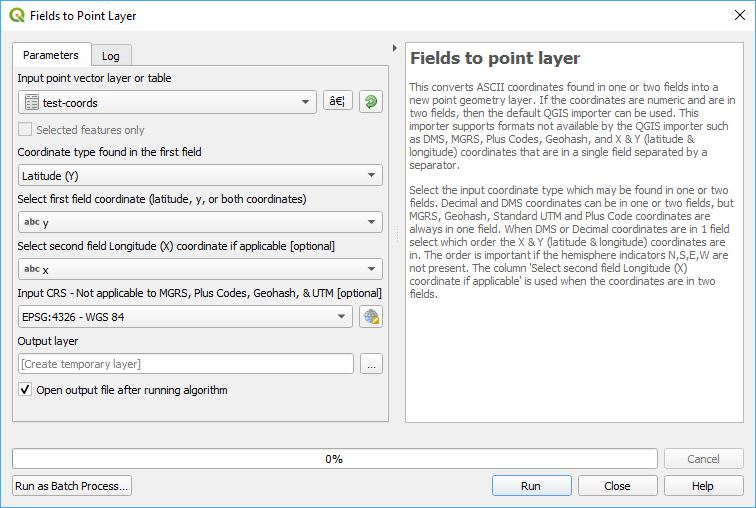
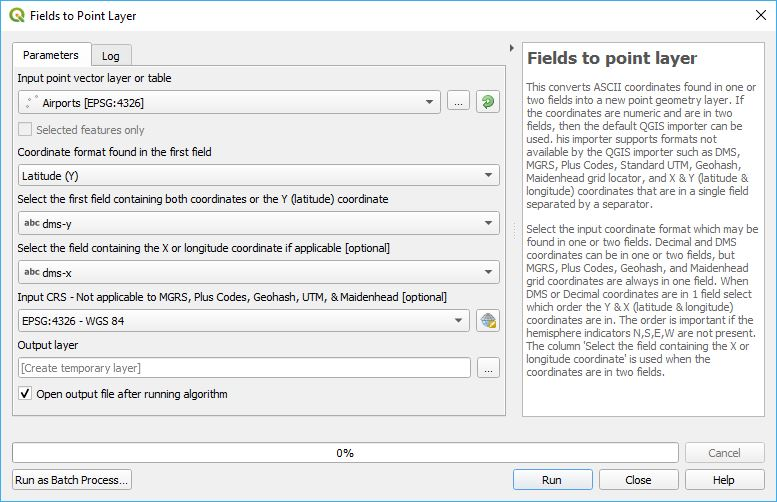
prvoide extra maidenhead and dms support.

Changed region(s): [[0.0, 0.0, 0.9735, 0.8367], [0.0, 0.8665, 0.9735, 0.9861], [0.9735, 0.0, 1.0, 0.0299]]

diff --git a/geom2field.py b/geom2field.py
@@ -21,6 +21,7 @@ from .util import epsg4326, convertDD2DMS, formatDmsString
 from .utm import latLon2UtmString
 from . import olc
 from . import geohash
+from .maidenhead import toMaiden
 
 def tr(string):
     return QCoreApplication.translate('Processing', string)
@@ -43,11 +44,13 @@ class Geom2FieldAlgorithm(QgsProcessingAlgorithm):
     PrmCustomCRS = 'CustomCRS'
     PrmWgs84NumberFormat = 'Wgs84NumberFormat'
     PrmCoordinatePrecision = 'CoordinatePrecision'
-    PrmDMSSecondPrecision = 'DMSSecondPrecision'
+    PrmDmsSecondPrecision = 'DMSSecondPrecision'
     PrmPlusCodesLength = 'PlusCodesLength'
     PrmGeohashPrecision = 'PrmGeohashPrecision'
     PrmOutputLayer = 'OutputLayer'
     PrmDmsAddSpace = 'DmsAddSpace'
+    PrmDmsPadWithSpace = 'DmsPadWithSpace'
+    PrmMaidenheadPrecision = 'MaidenheadPrecision'
 
     def initAlgorithm(self, config):
         self.addParameter(
@@ -59,26 +62,27 @@ class Geom2FieldAlgorithm(QgsProcessingAlgorithm):
         self.addParameter(
             QgsProcessingParameterEnum(
                 self.PrmOutputFormat,
-                tr('Output format'),
+                tr('Output coordinate format'),
                 options=[
                     tr('Coordinates in 2 fields'),
                     tr('Coordinates in 1 field'),
                     tr('GeoJSON'), tr('WKT'), tr('MGRS'),
-                    tr('Plus Codes'), tr('Geohash'), tr('Standard UTM')],
+                    tr('Plus Codes'), tr('Geohash'), tr('Standard UTM'),
+                    tr('Maidenhead grid locator')],
                 defaultValue=0,
-                optional=True)
+                optional=False)
         )
         self.addParameter(
             QgsProcessingParameterString(
                 self.PrmYFieldName,
-                tr('Name of latitude (Y) field & all other single field coordinates'),
+                tr('Name for the field containing both coordinates, or the Y (latitude) coordinate'),
                 defaultValue='y',
-                optional=True)
+                optional=False)
         )
         self.addParameter(
             QgsProcessingParameterString(
                 self.PrmXFieldName,
-                tr('Name of longitude (X) field when coordinates are in two fields'),
+                tr('Name of the field containing the X (longitude) portion of the coordinate'),
                 defaultValue='x',
                 optional=True)
         )
@@ -128,6 +132,13 @@ class Geom2FieldAlgorithm(QgsProcessingAlgorithm):
                 optional=True)
         )
         self.addParameter(
+            QgsProcessingParameterBoolean(
+                self.PrmDmsPadWithSpace,
+                tr('Pad D°M\'S" and D°M.MM\' ccoordinates with leading zeros'),
+                False,
+                optional=True)
+        )
+        self.addParameter(
             QgsProcessingParameterNumber(
                 self.PrmCoordinatePrecision,
                 tr('Decimal number precision'),
@@ -138,7 +149,7 @@ class Geom2FieldAlgorithm(QgsProcessingAlgorithm):
         )
         self.addParameter(
             QgsProcessingParameterNumber(
-                self.PrmDMSSecondPrecision,
+                self.PrmDmsSecondPrecision,
                 tr('DMS / Degrees Minutes / UTM precision'),
                 type=QgsProcessingParameterNumber.Integer,
                 defaultValue=0,
@@ -166,6 +177,16 @@ class Geom2FieldAlgorithm(QgsProcessingAlgorithm):
                 maxValue=30)
         )
         self.addParameter(
+            QgsProcessingParameterNumber(
+                self.PrmMaidenheadPrecision,
+                tr('Maidenhead grid locator precision'),
+                type=QgsProcessingParameterNumber.Integer,
+                defaultValue=3,
+                optional=True,
+                minValue=1,
+                maxValue=4)
+        )
+        self.addParameter(
             QgsProcessingParameterFeatureSink(
                 self.PrmOutputLayer,
                 tr('Output layer'))
@@ -182,10 +203,12 @@ class Geom2FieldAlgorithm(QgsProcessingAlgorithm):
         crsOther = self.parameterAsCrs(parameters, self.PrmCustomCRS, context)
         wgs84Format = self.parameterAsInt(parameters, self.PrmWgs84NumberFormat, context)
         decimalPrecision = self.parameterAsInt(parameters, self.PrmCoordinatePrecision, context)
-        dmsPrecision = self.parameterAsInt(parameters, self.PrmDMSSecondPrecision, context)
+        dmsPrecision = self.parameterAsInt(parameters, self.PrmDmsSecondPrecision, context)
         plusCodesLength = self.parameterAsInt(parameters, self.PrmPlusCodesLength, context)
         geohashPrecision = self.parameterAsInt(parameters, self.PrmGeohashPrecision, context)
+        maidenPrecision = self.parameterAsInt(parameters, self.PrmMaidenheadPrecision, context)
         use_dms_space = self.parameterAsBool(parameters, self.PrmDmsAddSpace, context)
+        dms_pad_with_space = self.parameterAsBool(parameters, self.PrmDmsPadWithSpace, context)
 
         layerCRS = source.sourceCrs()
         # For the first condition, the user has either EPSG:4326 selected or
@@ -233,14 +256,14 @@ class Geom2FieldAlgorithm(QgsProcessingAlgorithm):
                             msg = '{:.{prec}f}'.format(pt.y(), prec=decimalPrecision)
                             msg2 = '{:.{prec}f}'.format(pt.x(), prec=decimalPrecision)
                         elif wgs84Format == 1:  # DMS
-                            msg = convertDD2DMS(pt.y(), True, 0, dmsPrecision, use_dms_space)
-                            msg2 = convertDD2DMS(pt.x(), False, 0, dmsPrecision, use_dms_space)
+                            msg = convertDD2DMS(pt.y(), True, 0, dmsPrecision, use_dms_space, dms_pad_with_space)
+                            msg2 = convertDD2DMS(pt.x(), False, 0, dmsPrecision, use_dms_space, dms_pad_with_space)
                         elif wgs84Format == 2:  # D M.MM
-                            msg = convertDD2DMS(pt.y(), True, 2, dmsPrecision, use_dms_space)
-                            msg2 = convertDD2DMS(pt.x(), False, 2, dmsPrecision, use_dms_space)
+                            msg = convertDD2DMS(pt.y(), True, 2, dmsPrecision, use_dms_space, dms_pad_with_space)
+                            msg2 = convertDD2DMS(pt.x(), False, 2, dmsPrecision, use_dms_space, dms_pad_with_space)
                         else:  # DDMMSS
-                            msg = convertDD2DMS(pt.y(), True, 1, dmsPrecision, use_dms_space)
-                            msg2 = convertDD2DMS(pt.x(), False, 1, dmsPrecision, use_dms_space)
+                            msg = convertDD2DMS(pt.y(), True, 1, dmsPrecision, use_dms_space, dms_pad_with_space)
+                            msg2 = convertDD2DMS(pt.x(), False, 1, dmsPrecision, use_dms_space, dms_pad_with_space)
                     else:
                         msg = '{:.{prec}f}'.format(pt.y(), prec=decimalPrecision)
                         msg2 = '{:.{prec}f}'.format(pt.x(), prec=decimalPrecision)
@@ -252,11 +275,11 @@ class Geom2FieldAlgorithm(QgsProcessingAlgorithm):
                             else:
                                 msg = '{:.{prec}f}{}{:.{prec}f}'.format(pt.x(), delimiter, pt.y(), prec=decimalPrecision)
                         elif wgs84Format == 1:  # DMS
-                            msg = formatDmsString(pt.y(), pt.x(), 0, dmsPrecision, coordOrder, delimiter, use_dms_space)
+                            msg = formatDmsString(pt.y(), pt.x(), 0, dmsPrecision, coordOrder, delimiter, use_dms_space, dms_pad_with_space)
                         elif wgs84Format == 2:  # D M.MM
-                            msg = formatDmsString(pt.y(), pt.x(), 2, dmsPrecision, coordOrder, delimiter, use_dms_space)
+                            msg = formatDmsString(pt.y(), pt.x(), 2, dmsPrecision, coordOrder, delimiter, use_dms_space, dms_pad_with_space)
                         else:  # DDMMSS
-                            msg = formatDmsString(pt.y(), pt.x(), 1, dmsPrecision, coordOrder, delimiter, use_dms_space)
+                            msg = formatDmsString(pt.y(), pt.x(), 1, dmsPrecision, coordOrder, delimiter, use_dms_space, dms_pad_with_space)
                     else:
                         if coordOrder == 0:
                             msg = '{:.{prec}f}{}{:.{prec}f}'.format(pt.y(), delimiter, pt.x(), prec=decimalPrecision)
@@ -272,10 +295,13 @@ class Geom2FieldAlgorithm(QgsProcessingAlgorithm):
                     msg = olc.encode(pt.y(), pt.x(), plusCodesLength)
                 elif outputFormat == 6:  # Geohash
                     msg = geohash.encode(pt.y(), pt.x(), geohashPrecision)
-                else:  # WGS 84 UTM
+                elif outputFormat == 7:  # WGS 84 UTM
                     msg = latLon2UtmString(pt.y(), pt.x(), dmsPrecision)
+                else:  # Maidenhead grid
+                    msg = toMaiden(pt.y(), pt.x(), maidenPrecision)
             except Exception:
                 msg = ''
+                msg2 = ''
 
             f = QgsFeature()
             f.setGeometry(feature.geometry())

diff --git a/field2geom.py b/field2geom.py
@@ -20,6 +20,7 @@ from .util import epsg4326, parseDMSString
 from . import olc
 from . import geohash
 from .utm import isUtm, utmString2Crs
+from .maidenhead import maidenGridCenter
 # import traceback
 
 
@@ -51,19 +52,19 @@ class Field2GeomAlgorithm(QgsProcessingAlgorithm):
         self.addParameter(
             QgsProcessingParameterEnum(
                 self.PrmInputField1Type,
-                tr('Coordinate type found in the first field'),
+                tr('Coordinate format found in the first field'),
                 options=[
                     tr('Latitude (Y)'),
                     tr('Latitude (Y), Longitude (X)'),
                     tr('Longitude (X), Latitude (Y)'),
-                    tr('MGRS'), tr('Plus Codes'), tr('Geohash'), tr('Standard UTM')],
+                    tr('MGRS'), tr('Plus Codes'), tr('Geohash'), tr('Standard UTM'), tr('Maidenhead grid locator')],
                 defaultValue=0,
                 optional=False)
         )
         self.addParameter(
             QgsProcessingParameterField(
                 self.PrmField1,
-                tr('Select first field coordinate (latitude, y, or both coordinates)'),
+                tr('Select the first field containing both coordinates or the Y (latitude) coordinate'),
                 parentLayerParameterName=self.PrmInputLayer,
                 type=QgsProcessingParameterField.String,
                 optional=False)
@@ -71,7 +72,7 @@ class Field2GeomAlgorithm(QgsProcessingAlgorithm):
         self.addParameter(
             QgsProcessingParameterField(
                 self.PrmField2,
-                tr('Select second field Longitude (X) coordinate if applicable'),
+                tr('Select the field containing the X or longitude coordinate if applicable'),
                 parentLayerParameterName=self.PrmInputLayer,
                 type=QgsProcessingParameterField.String,
                 optional=True)
@@ -79,7 +80,7 @@ class Field2GeomAlgorithm(QgsProcessingAlgorithm):
         self.addParameter(
             QgsProcessingParameterCrs(
                 self.PrmInputCRS,
-                tr('Input CRS - Not applicable to MGRS, Plus Codes, Geohash, & UTM'),
+                tr('Input CRS - Not applicable to MGRS, Plus Codes, Geohash, UTM, & Maidenhead'),
                 'EPSG:4326',
                 optional=True)
         )
@@ -108,7 +109,7 @@ class Field2GeomAlgorithm(QgsProcessingAlgorithm):
 
         fieldsout = QgsFields(source.fields())
 
-        if field_type >= 3:  # For MGRS, Plus Codes, UTM and Geohash force the CRS to be 4326
+        if field_type >= 3:  # For MGRS, Plus Codes, UTM, Geohash and Maidenhead force the CRS to be 4326
             input_crs = epsg4326
 
         (sink, dest_id) = self.parameterAsSink(
@@ -165,6 +166,10 @@ class Field2GeomAlgorithm(QgsProcessingAlgorithm):
                     pt = utmString2Crs(attr1)
                     lat = pt.y()
                     lon = pt.x()
+                elif field_type == 7:  # Maidenhead Grid Locator
+                    (lat, lon) = maidenGridCenter(attr1)
+                    lat = float(lat)
+                    lon = float(lon)
 
                 f = QgsFeature()
                 f.setAttributes(feature.attributes())

diff --git a/zoomToLatLon.py b/zoomToLatLon.py
@@ -14,7 +14,7 @@ from .utm import isUtm, utmString2Crs
 from . import mgrs
 from . import olc
 from . import geohash
-from . import maidenhead
+from .maidenhead import maidenGridCenter
 
 FORM_CLASS, _ = loadUiType(os.path.join(
     os.path.dirname(__file__), 'ui/zoomToLatLon.ui'))
@@ -123,7 +123,7 @@ class ZoomToLatLon(QDockWidget, FORM_CLASS):
             if self.settings.zoomToProjIsMaidenhead():
                 # A Maidenhead grid coordinate has been selected. This will result in an exception
                 # if it is not a valid maidenhead coordinate.
-                (lat, lon) = maidenhead.toGridCenter(text)
+                (lat, lon) = maidenGridCenter(text)
                 return(float(lat), float(lon), epsg4326)
 
             # Check for other formats

diff --git a/maidenhead.py b/maidenhead.py
@@ -1,5 +1,5 @@
 
-def toGridCenter(maiden):
+def maidenGridCenter(maiden):
     """
         maiden is a string the is even and between 2 to 8 characters
         It returns the center point of a maiden grid and throws an exception

diff --git a/readme.md b/readme.md
@@ -91,11 +91,11 @@ Some of the functions can be accessed from the ***Lat Lon Tools*** toolbar. If f
     
     <div style="text-align:center"><img src="doc/processing.jpg" alt="Lat Lon Tools processing toolbox"></div>
 
-    * <img src="images/field2geom.png" alt="Fields to point layer"> ***Fields to point layer*** - This converts ASCII coordinates found in one or two attribute fields into a new point geometry layer. If the coordinates are numeric and are in two fields, then the default QGIS importer can be used. This importer supports formats not available by the QGIS importer such as DMS, MGRS, Plus Codes, Standard UTM, Geohash, and X & Y (latitude & longitude) coordinates that are in a single field separated by a separator.<br /><br />Select the input coordinate type which may be found in one or two fields. Decimal and DMS coordinates can be in one or two fields, but MGRS and Plus Code coordinates are always in one field. When DMS or Decimal coordinates are in 1 field select which order the X & Y (latitude & longitude) coordinates are in. The order is important if the hemisphere indicators N,S,E,W are not present. The column 'Select second field longitude (x) coordinate' is used when the coordinates are in two fields. 
+    * <img src="images/field2geom.png" alt="Fields to point layer"> ***Fields to point layer*** - This converts ASCII coordinates found in one or two attribute fields into a new point geometry layer. If the coordinates are numeric and are in two fields, then the default QGIS importer can be used. This importer supports formats not available by the QGIS importer such as DMS, MGRS, Plus Codes, Standard UTM, Geohash, Maidenhead grid locator, and X & Y (latitude & longitude) coordinates that are in a single field separated by a separator.<br /><br />Select the input coordinate format which may be found in one or two fields. Decimal and DMS coordinates can be in one or two fields, but MGRS, Plus Codes, Geohash, and Maidenhead grid coordinates are always in one field. When DMS or Decimal coordinates are in 1 field select which order the Y & X (latitude & longitude) coordinates are in. The order is important if the hemisphere indicators N,S,E,W are not present. The column 'Select the field containing the X or longitude coordinate' is used when the coordinates are in two fields. 
     
     <div style="text-align:center"><img src="doc/field2geom.jpg" alt="Fields to point layer"></div>
     
-    * <img src="images/geom2field.png" alt="Point layer to field"> ***Point layer to fields*** - This takes a point vector layer and creates a new layer with the layer's latitude, longitude (Y, X) copied into one or two fields in the new layer. The user has a lot of flexibility as to the output format. For Wgs84 the output can be in decimal degrees or DMS. Other formats include GeoJSON, WKT, MGRS, Standard UTM, Geohash, and Plus Codes. 
+    * <img src="images/geom2field.png" alt="Point layer to field"> ***Point layer to fields*** - This takes a point vector layer and creates a new layer with the layer's latitude, longitude (Y, X) coordinates copied into one or two fields in the new output layer. The user has a lot of flexibility as to the output format. For Wgs84 the output can be in decimal degrees or DMS. Other formats include GeoJSON, WKT, MGRS, Standard UTM, Geohash, Plus Codes, and Maidenhead grid. 
     
     <div style="text-align:center"><img src="doc/geom2field.jpg" alt="Point layer to Field"></div>
     
